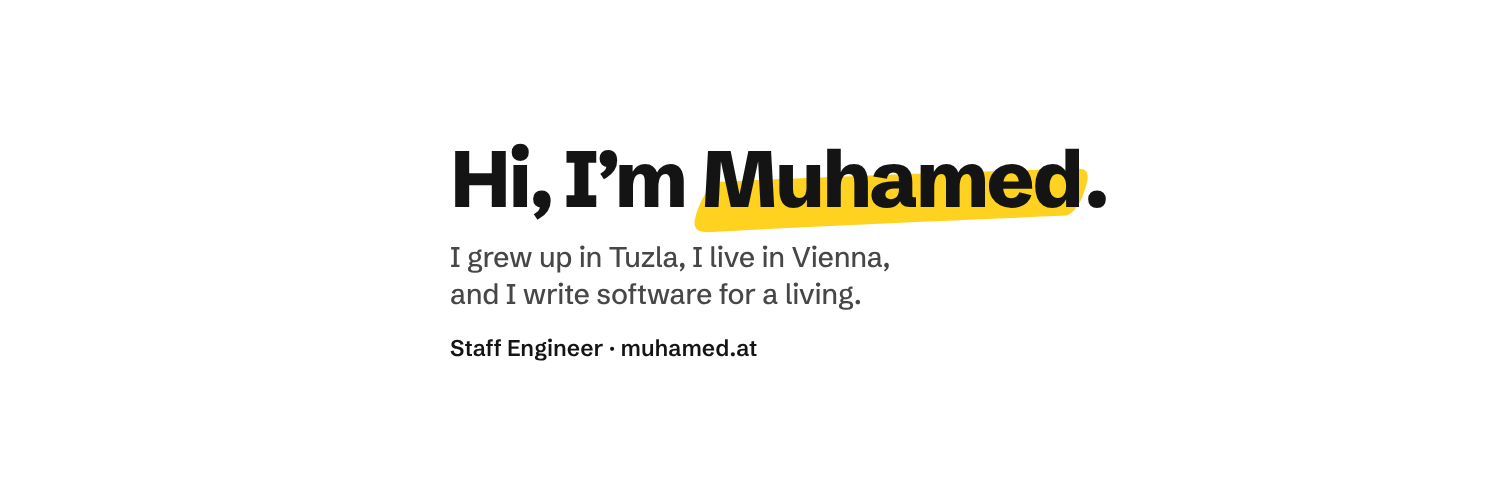
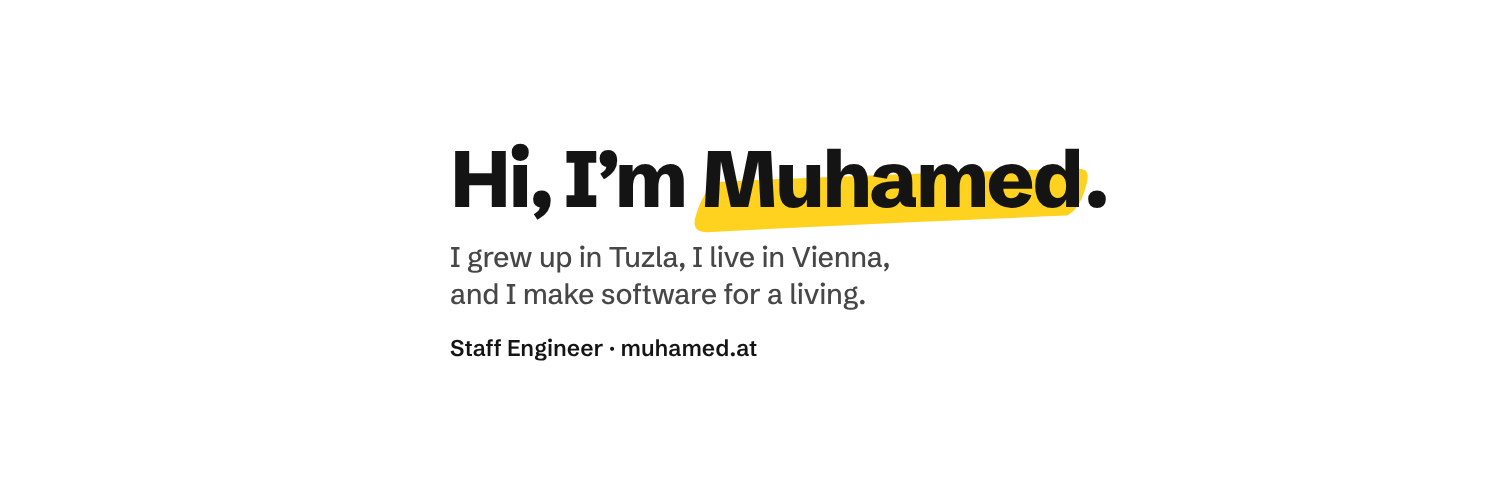
home: make software, not write it
On the owner's word, the hero's first sentence is "I grew up in Tuzla,
I live in Vienna, and I make software for a living." (was "write
software"). "Make" covers deciding what to build, leading and directing
agents; the next lines say agents now write the code.

The share card and the LinkedIn and X headers carry that sentence and
are re-rendered; their alt texts, PRODUCT.md and the records follow.
The About page keeps "I write software".

Part of the twenty-eighth change of
wiki/muhamed.github.io/adrs/professional-homepage-with-brain-and-writing.md
and the fifth change of
wiki/muhamed.github.io/adrs/amber-portrait-and-brand-kit.md.

Claude-Session: https://claude.ai/code/session_01XscJoG4SmD7LMe8LdYaRQg

Changed region(s): [[0.3373, 0.57, 0.5827, 0.63]]

diff --git a/files/brand.html b/files/brand.html
@@ -45,7 +45,7 @@ description: Photos, banners, colours, typeface and bios of Muhamed Isabegovic, 
     <div class="brand-banners">
       {% for bn in b.banners %}
       <figure class="brand-banner">
-        <img src="{{ site.baseurl }}/{{ bn.file }}" alt="{{ bn.name }}: Hi, I’m Muhamed. I grew up in Tuzla, I live in Vienna, and I write software for a living. On white" loading="lazy">
+        <img src="{{ site.baseurl }}/{{ bn.file }}" alt="{{ bn.name }}: Hi, I’m Muhamed. I grew up in Tuzla, I live in Vienna, and I make software for a living. On white" loading="lazy">
         <figcaption>
           <strong>{{ bn.name }}</strong>
           <span>{{ bn.note }}</span>

diff --git a/files/_includes/meta.html b/files/_includes/meta.html
@@ -11,5 +11,5 @@
 {% if page.image == "/images/social/share.png" %}
 <meta property="og:image:width" content="1200"/>
 <meta property="og:image:height" content="630"/>
-<meta property="og:image:alt" content="Muhamed Isabegovic, Staff Engineer, Vienna: Hi, I’m Muhamed. I grew up in Tuzla, I live in Vienna, and I write software for a living."/>
+<meta property="og:image:alt" content="Muhamed Isabegovic, Staff Engineer, Vienna: Hi, I’m Muhamed. I grew up in Tuzla, I live in Vienna, and I make software for a living."/>
 {% endif %}

diff --git a/.github/scripts/render-social-images.js b/.github/scripts/render-social-images.js
@@ -83,7 +83,7 @@ function servicePost(s, w, h) {
 // The site's greeting (files/_data/home.yml, hero.title) and, under it, the
 // first sentence of the hero's lead. Update both here when they change.
 // Its line breaks are set by hand, for the card and for the headers.
-const LEAD_CARD = 'I grew up in Tuzla, I live in Vienna,<br>and I write software for a living.';
+const LEAD_CARD = 'I grew up in Tuzla, I live in Vienna,<br>and I make software for a living.';
 const LEAD_HEADER = LEAD_CARD;
 
 function share(w, h) {

diff --git a/log/log.md b/log/log.md
@@ -357,3 +357,5 @@
    by: agent
 - site: the twenty-eighth change, fourth look, on the owner's ask ("Review from different perspectives"): four fresh reads of the hero (an engineering leader buying help, a hiring manager, a copy editor, a designer). The owner took all four wording fixes: "and leading teams along the way" after "anywhere in the stack" (the paragraph read as a developer working alone), "These days" for "Lately", "keep it reliable" for "keep that reliable", and no comma in the last sentence. And one layout change: the first sentence, "I grew up in Tuzla, I live in Vienna, and I write software for a living.", is set apart in ink, with the rest under it, smaller and grey (`hero.lead` and `hero.more` in home.yml, `.hero-more` in site.css). Checked in Chromium at 1440, 820 and 390 px. The images are unchanged. Not taken up, for later: a small photo first on phones, the text links kept together on tablets, the name dropped from the portrait's caption.
    by: agent
+- site, brand: the twenty-eighth change, on the owner's word ("Instead of write software, maybe say make software?"): the hero's first sentence is "I grew up in Tuzla, I live in Vienna, and I make software for a living." The share card and the LinkedIn and X headers, which carry that sentence, are re-rendered, and their alt texts and PRODUCT.md follow. The About page keeps "I write software".
+   by: agent

diff --git a/wiki/muhamed.github.io/adrs/professional-homepage-with-brain-and-writing.md b/wiki/muhamed.github.io/adrs/professional-homepage-with-brain-and-writing.md
@@ -620,7 +620,11 @@ files/assets/site.css). The images are unchanged: they carry the first
 sentence. Found by the designer and not taken up: a small round photo above
 the headline on phones, the two text links kept together on tablets, the
 columns aligned at the top on tablets, and the name dropped from the
-portrait's caption.
+portrait's caption. Last, on the owner's word, the first sentence says
+"make": "I grew up in Tuzla, I live in Vienna, and I make software for a
+living." (was "write software"), on the page, the share card and the
+headers. "Make" covers deciding what to build, leading and directing agents,
+where "write" named only the typing, which the next lines say agents now do.
 
 ## Approval
 
@@ -768,7 +772,8 @@ he chose "Bring people together". Then: "I have a hunch we can still
 improve it. The right stuff is there... Review from different perspectives".
 Of the four wording fixes the reviews proposed he took all four, and for the
 layout "2: first sentence set apart", over the same with a small photo first
-on phones and over keeping the layout.
+on phones and over keeping the layout. Then: "Instead of write software,
+maybe say make software?"
 
 ## Related
 

diff --git a/PRODUCT.md b/PRODUCT.md
@@ -44,7 +44,7 @@ because AI suggests it): simple and personal, who he is and how he could
 help, with "Muhamed" on the hand-drawn highlighter the site and every
 generated image use. The hero's text is warm and made of things only he can
 say. Its first sentence is set apart in ink: "I grew up in Tuzla, I live in
-Vienna, and I write software for a living." The rest sits under it, smaller:
+Vienna, and I make software for a living." The rest sits under it, smaller:
 "For ten years that has meant everything from deciding what to build to
 running it in production, anywhere in the stack, and leading teams along the
 way. These days I also work one layer up, with agents writing the code, and

diff --git a/wiki/muhamed.github.io/adrs/amber-portrait-and-brand-kit.md b/wiki/muhamed.github.io/adrs/amber-portrait-and-brand-kit.md
@@ -144,7 +144,9 @@ change), so the sentence under the greeting is its first: "I work on
 software from deciding what to build to running it in production, anywhere
 in the stack." On a third look the lead was rewritten to be warmer, and the
 sentence under the greeting is again its first: "I grew up in Tuzla, I live
-in Vienna, and I write software for a living."
+in Vienna, and I write software for a living." Later that day "write"
+became "make", on the owner's word: "I grew up in Tuzla, I live in Vienna,
+and I make software for a living."
 
 ## Related
 

diff --git a/wiki/muhamed.github.io/records/amber-portrait-and-brand-kit.md b/wiki/muhamed.github.io/records/amber-portrait-and-brand-kit.md
@@ -90,6 +90,9 @@ PDF are byte-identical to the built ones.
   living." on the headers and the share card (source:
   .github/scripts/render-social-images.js). All three rendered without
   overflow. Not yet uploaded to the profiles.
+- Last on 2026-11-21: "write software" is "make software" in that
+  sentence, on the owner's word; the three images are re-rendered without
+  overflow.
 
 ## Related
 
